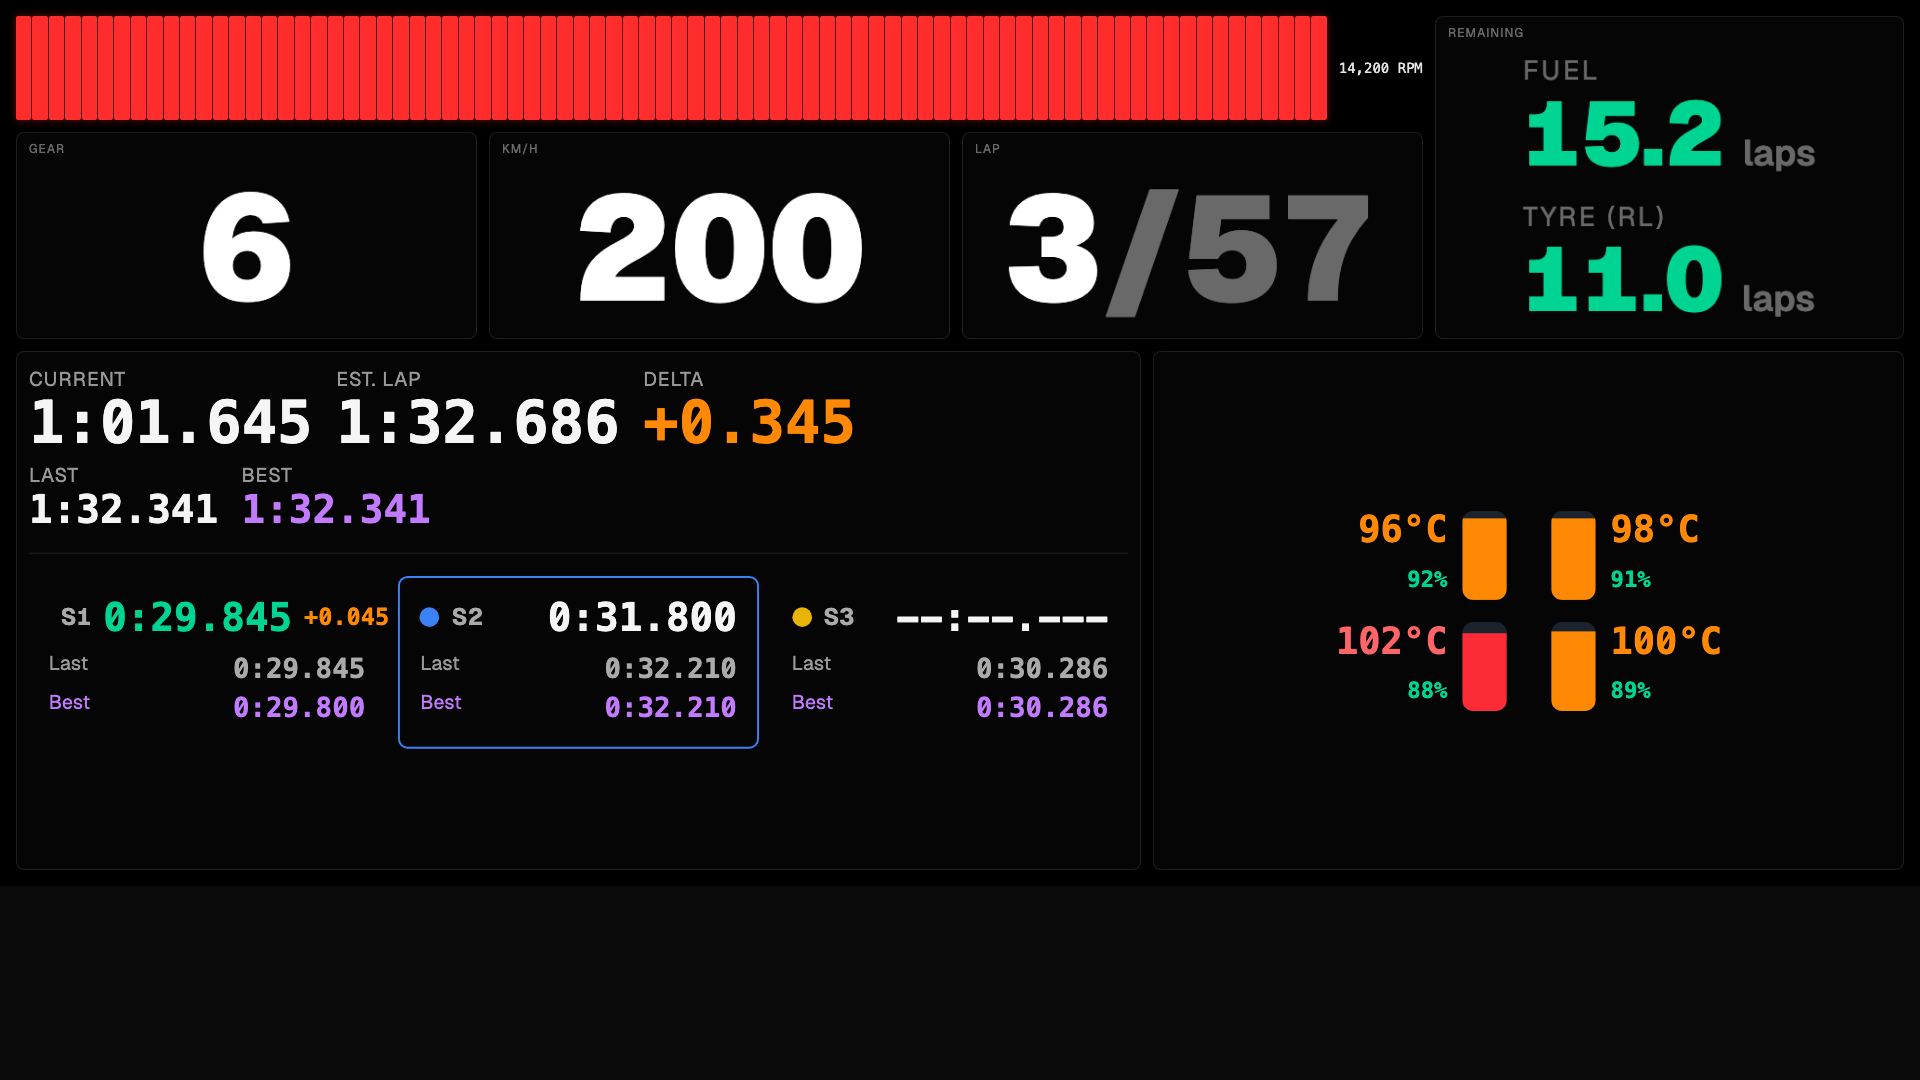
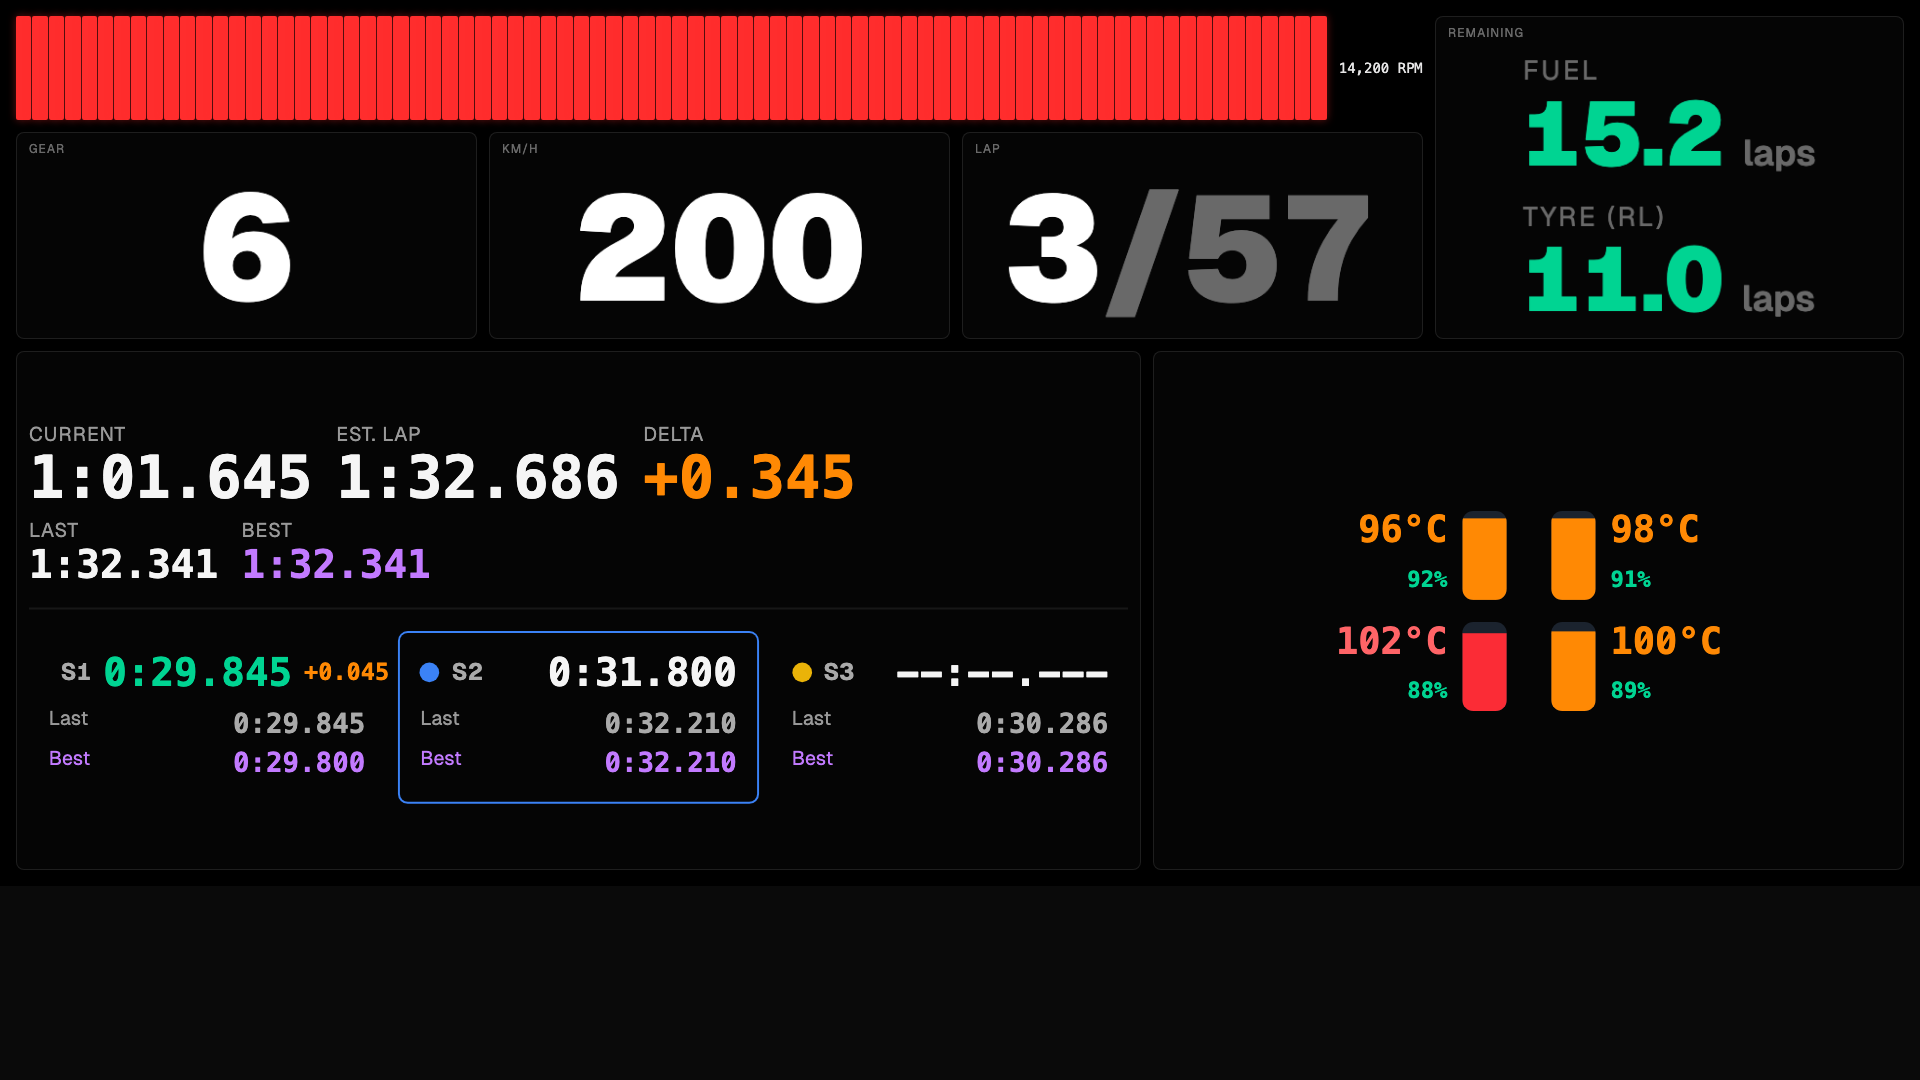
feat(dash): race hud title, drop lap slider, center race info panel
- Catalogue: rename combo-1 to "Combo Dash 1 — Race HUD"
- Catalogue: remove the lap-count slider from the combo-2 preview; the
  slider belongs to storybook only. Preview now uses a fixed 10-lap fake
  session
- ComboDash: vertically center the lap/sector race info panel via
  FitToViewport alignY="center"

diff --git a/client/src/routes/dash.index.tsx b/client/src/routes/dash.index.tsx
@@ -1,7 +1,7 @@
 import { createFileRoute, Link } from "@tanstack/react-router";
 import { useQuery } from "@tanstack/react-query";
 import { QRCodeSVG } from "qrcode.react";
-import { useEffect, useMemo, useState, type ReactNode } from "react";
+import { useEffect, useState, type ReactNode } from "react";
 import { ComboDash } from "../components/dashes/ComboDash";
 import { ComboDash2 } from "../components/dashes/ComboDash2";
 import {
@@ -11,9 +11,9 @@ import {
   fakePit,
   generateFakeSessionLaps,
 } from "../stories/fakeData";
-
-const MAX_PREVIEW_LAPS = 100;
 import type { TelemetryPacket } from "@shared/types";
+
+const PREVIEW_LAPS = generateFakeSessionLaps(10);
 
 const PREVIEW_RAW_PACKET = {
   ...fakeForzaPacket,
@@ -42,7 +42,7 @@ const DASH_META: DashMeta[] = [
   {
     slug: "combo-1",
     href: "/dash/combo-1",
-    title: "Combo Dash 1",
+    title: "Combo Dash 1 — Race HUD",
     description:
       "Rev bar + gear/speed/lap tiles, fuel & tire laps-remaining, lap + sector readout, and a live tire grid. Landscape tablet-friendly.",
   },
@@ -96,12 +96,6 @@ function DashCatalogue() {
   const previewWidth = `min(100%, ${maxW}px, ${Math.floor((maxH * vp.w) / vp.h)}px)`;
   const previewAspect = `${vp.w} / ${vp.h}`;
 
-  const [combo2LapCount, setCombo2LapCount] = useState(10);
-  const combo2Laps = useMemo(
-    () => generateFakeSessionLaps(combo2LapCount),
-    [combo2LapCount],
-  );
-
   const previewFor = (slug: DashMeta["slug"]): ReactNode => {
     if (slug === "combo-1") {
       return (
@@ -118,8 +112,8 @@ function DashCatalogue() {
     return (
       <ComboDash2
         rawPacket={PREVIEW_RAW_PACKET}
-        allLaps={combo2Laps}
-        sessionLaps={combo2Laps}
+        allLaps={PREVIEW_LAPS}
+        sessionLaps={PREVIEW_LAPS}
       />
     );
   };
@@ -165,25 +159,6 @@ function DashCatalogue() {
                     <div className="absolute inset-0 transition-colors group-hover:bg-white/[0.04]" />
                   </div>
                 </Link>
-                {d.slug === "combo-2" && (
-                  <div className="px-5 pt-3 flex items-center gap-3">
-                    <label className="text-[10px] uppercase tracking-wider text-white/40 font-mono shrink-0">
-                      Laps
-                    </label>
-                    <input
-                      type="range"
-                      min={1}
-                      max={MAX_PREVIEW_LAPS}
-                      step={1}
-                      value={combo2LapCount}
-                      onChange={(e) => setCombo2LapCount(Number(e.target.value))}
-                      className="flex-1 accent-app-accent"
-                    />
-                    <span className="text-xs font-mono tabular-nums text-white/60 w-10 text-right">
-                      {combo2LapCount}/{MAX_PREVIEW_LAPS}
-                    </span>
-                  </div>
-                )}
                 <div className="p-5 flex gap-4 items-start">
                   <div className="flex-1 min-w-0">
                     <Link to={d.href}>

diff --git a/client/src/components/dashes/ComboDash.tsx b/client/src/components/dashes/ComboDash.tsx
@@ -143,7 +143,7 @@ export function ComboDash({
         <div className="col-span-2 min-h-0 flex gap-3">
           <div className="flex-[3] min-w-0 min-h-0 rounded-md border border-white/10 bg-white/[0.02] overflow-hidden">
             {rawPacket ? (
-              <FitToViewport padding={12} alignX="start" alignY="start">
+              <FitToViewport padding={12} alignX="start" alignY="center">
                 <div style={{ width: 560 }} className="space-y-3">
                   <LapTimes packet={rawPacket} sectors={sectors} />
                   <SectorTimes sectors={sectors} />
